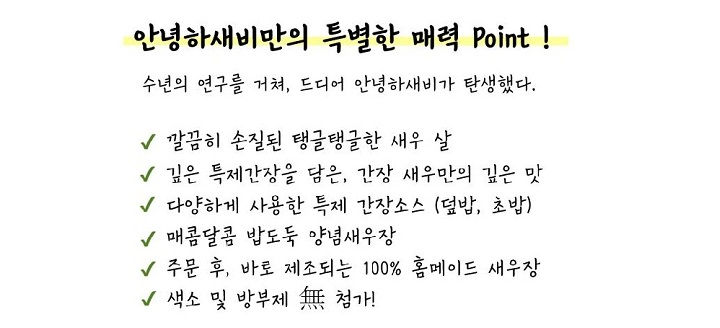
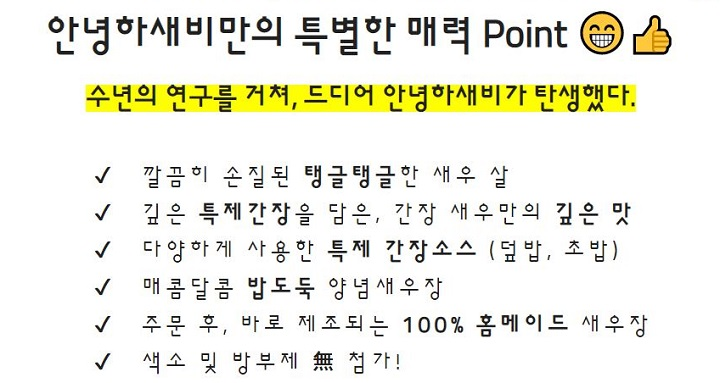
d

diff --git a/_posts/2020-01-20-안녕하새비의-깐새우장.md b/_posts/2020-01-20-안녕하새비의-깐새우장.md
@@ -12,7 +12,7 @@ recipe:
   directions_markdown: |-
 ---
 
-
+<!--나중에 참고
 <center>
 <h1>안녕하새비만의 특별한 매력 Point &#x1F601;&#x1F44D;</h1>
 <h2><span style= "background-color: yellow;"><b>수년의 연구를 거쳐, 드디어 안녕하새비가 탄생했다.</b></span></h2>
@@ -24,7 +24,7 @@ recipe:
 &#x2714; &nbsp; 매콤달콤 <b>밥도둑</b> 양념새우장<br>
 &#x2714; &nbsp; 주문 후, 바로 제조되는 <b>100% 홈메이드 </b>새우장<br>
 &#x2714; &nbsp; 색소 및 방부제 <b>&#28961;</b> 첨가!<br></span>
-
+-->
 
 <style type="text/css">
     .aligncenter {
@@ -33,7 +33,7 @@ recipe:
     }
 </style>
 
-![POINT](/images/product/text4.JPG "안녕하새비만의 특별한 매력"){: .aligncenter}
+![POINT](/images/product/text4.JPG "안녕하새비만의 특별한 매력")
 
 <p>
 <img style="align:center" src= /images/product/text4.JPG alt= "안녕하새비만의 특별한 매력"/>
